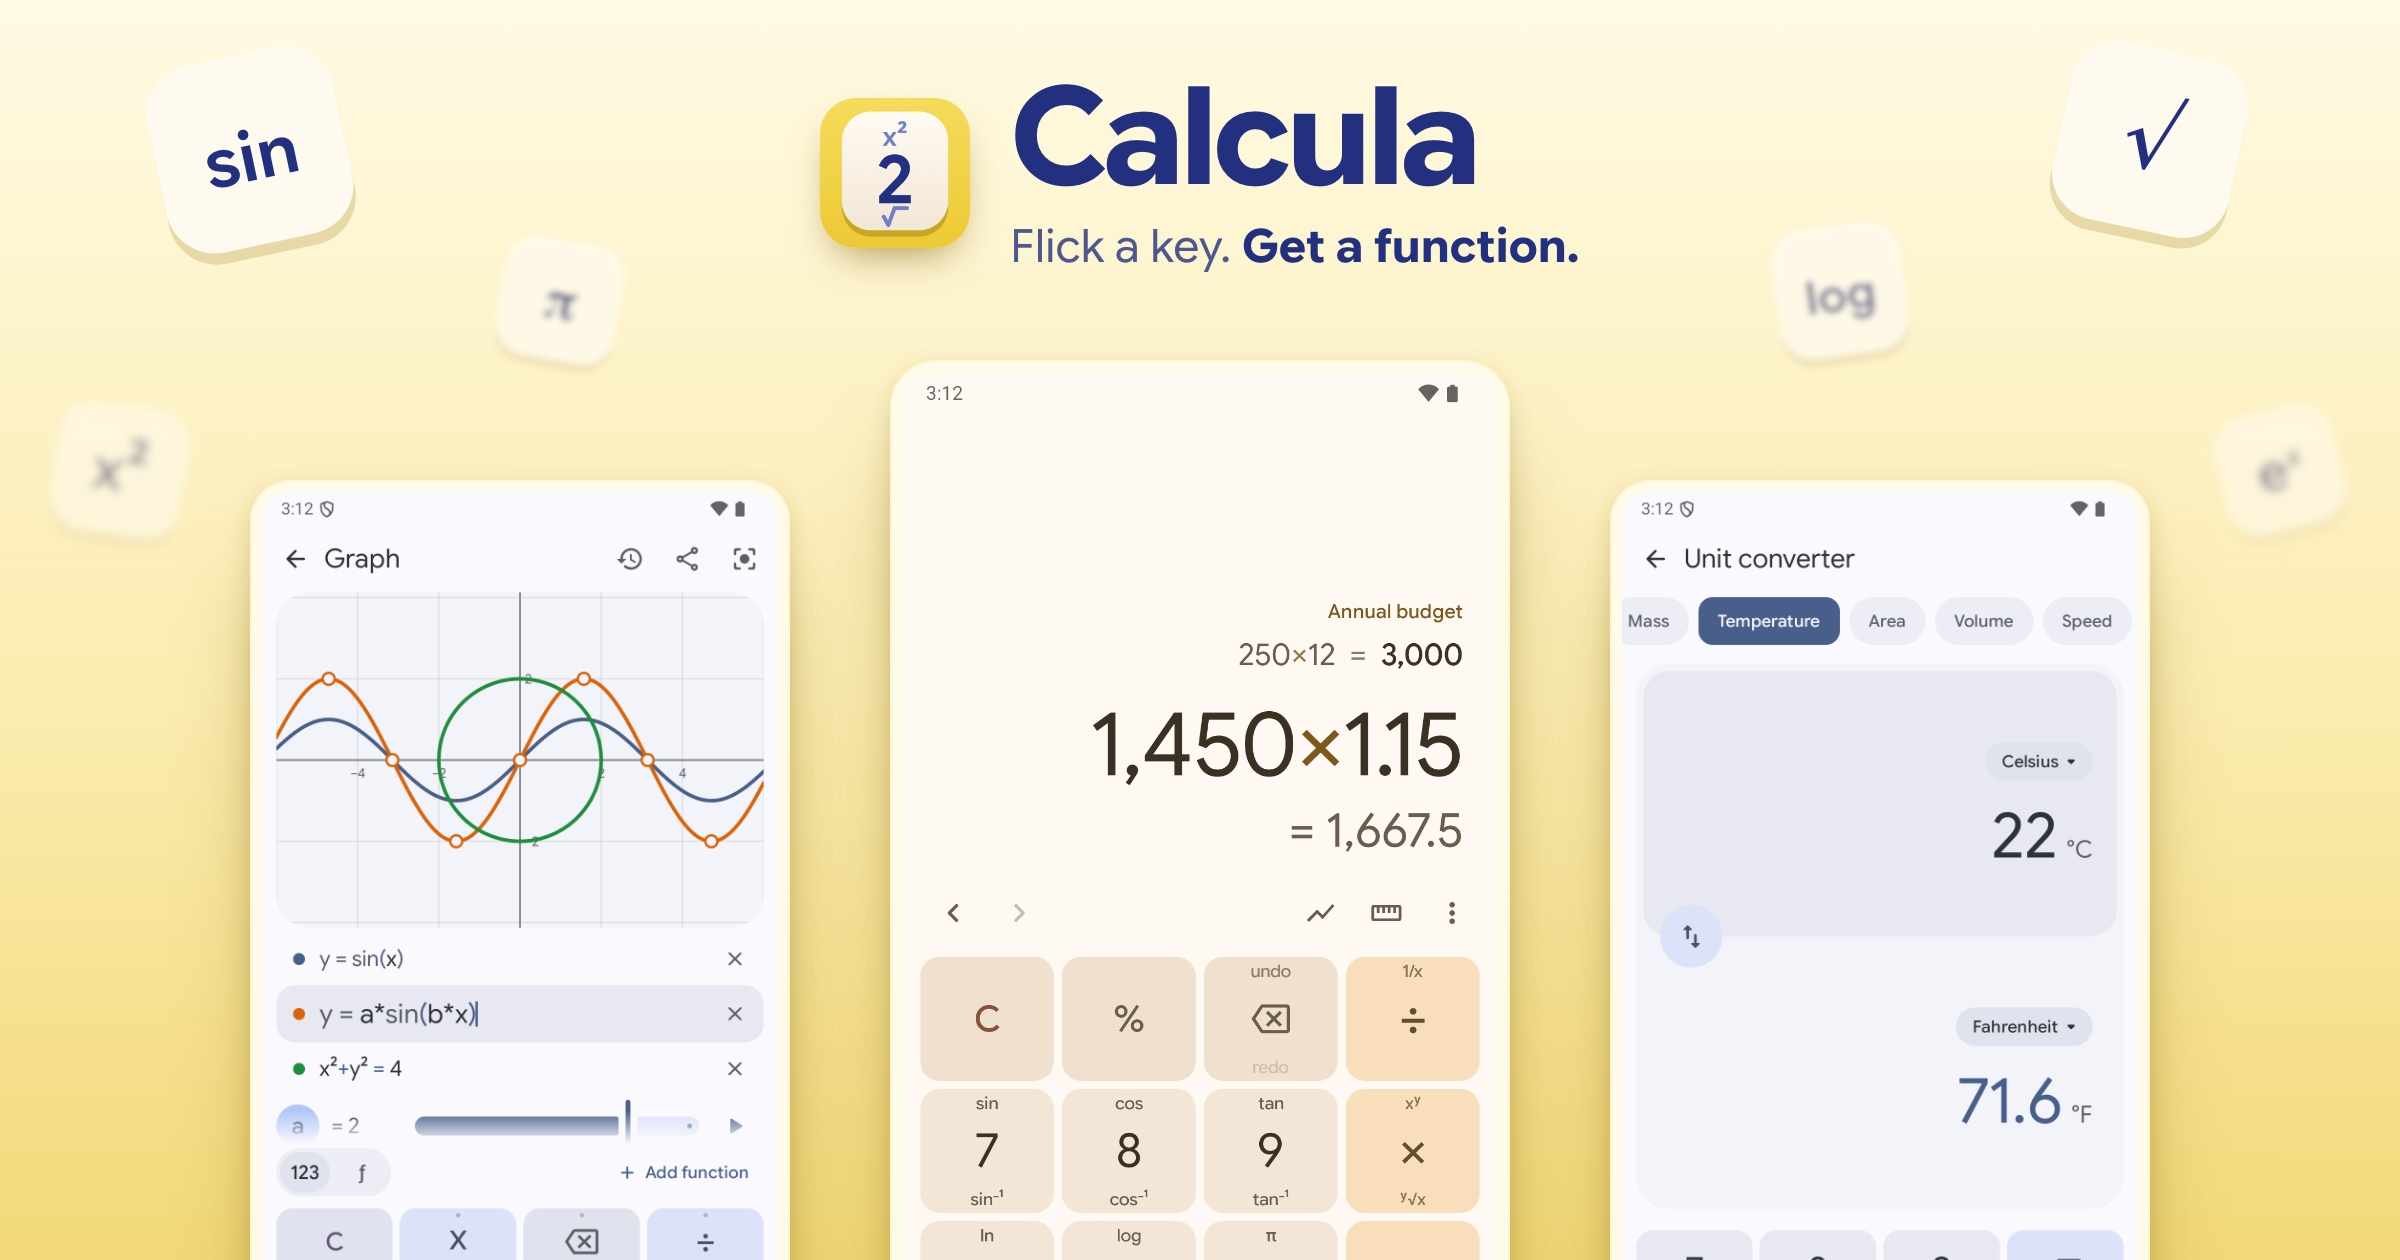
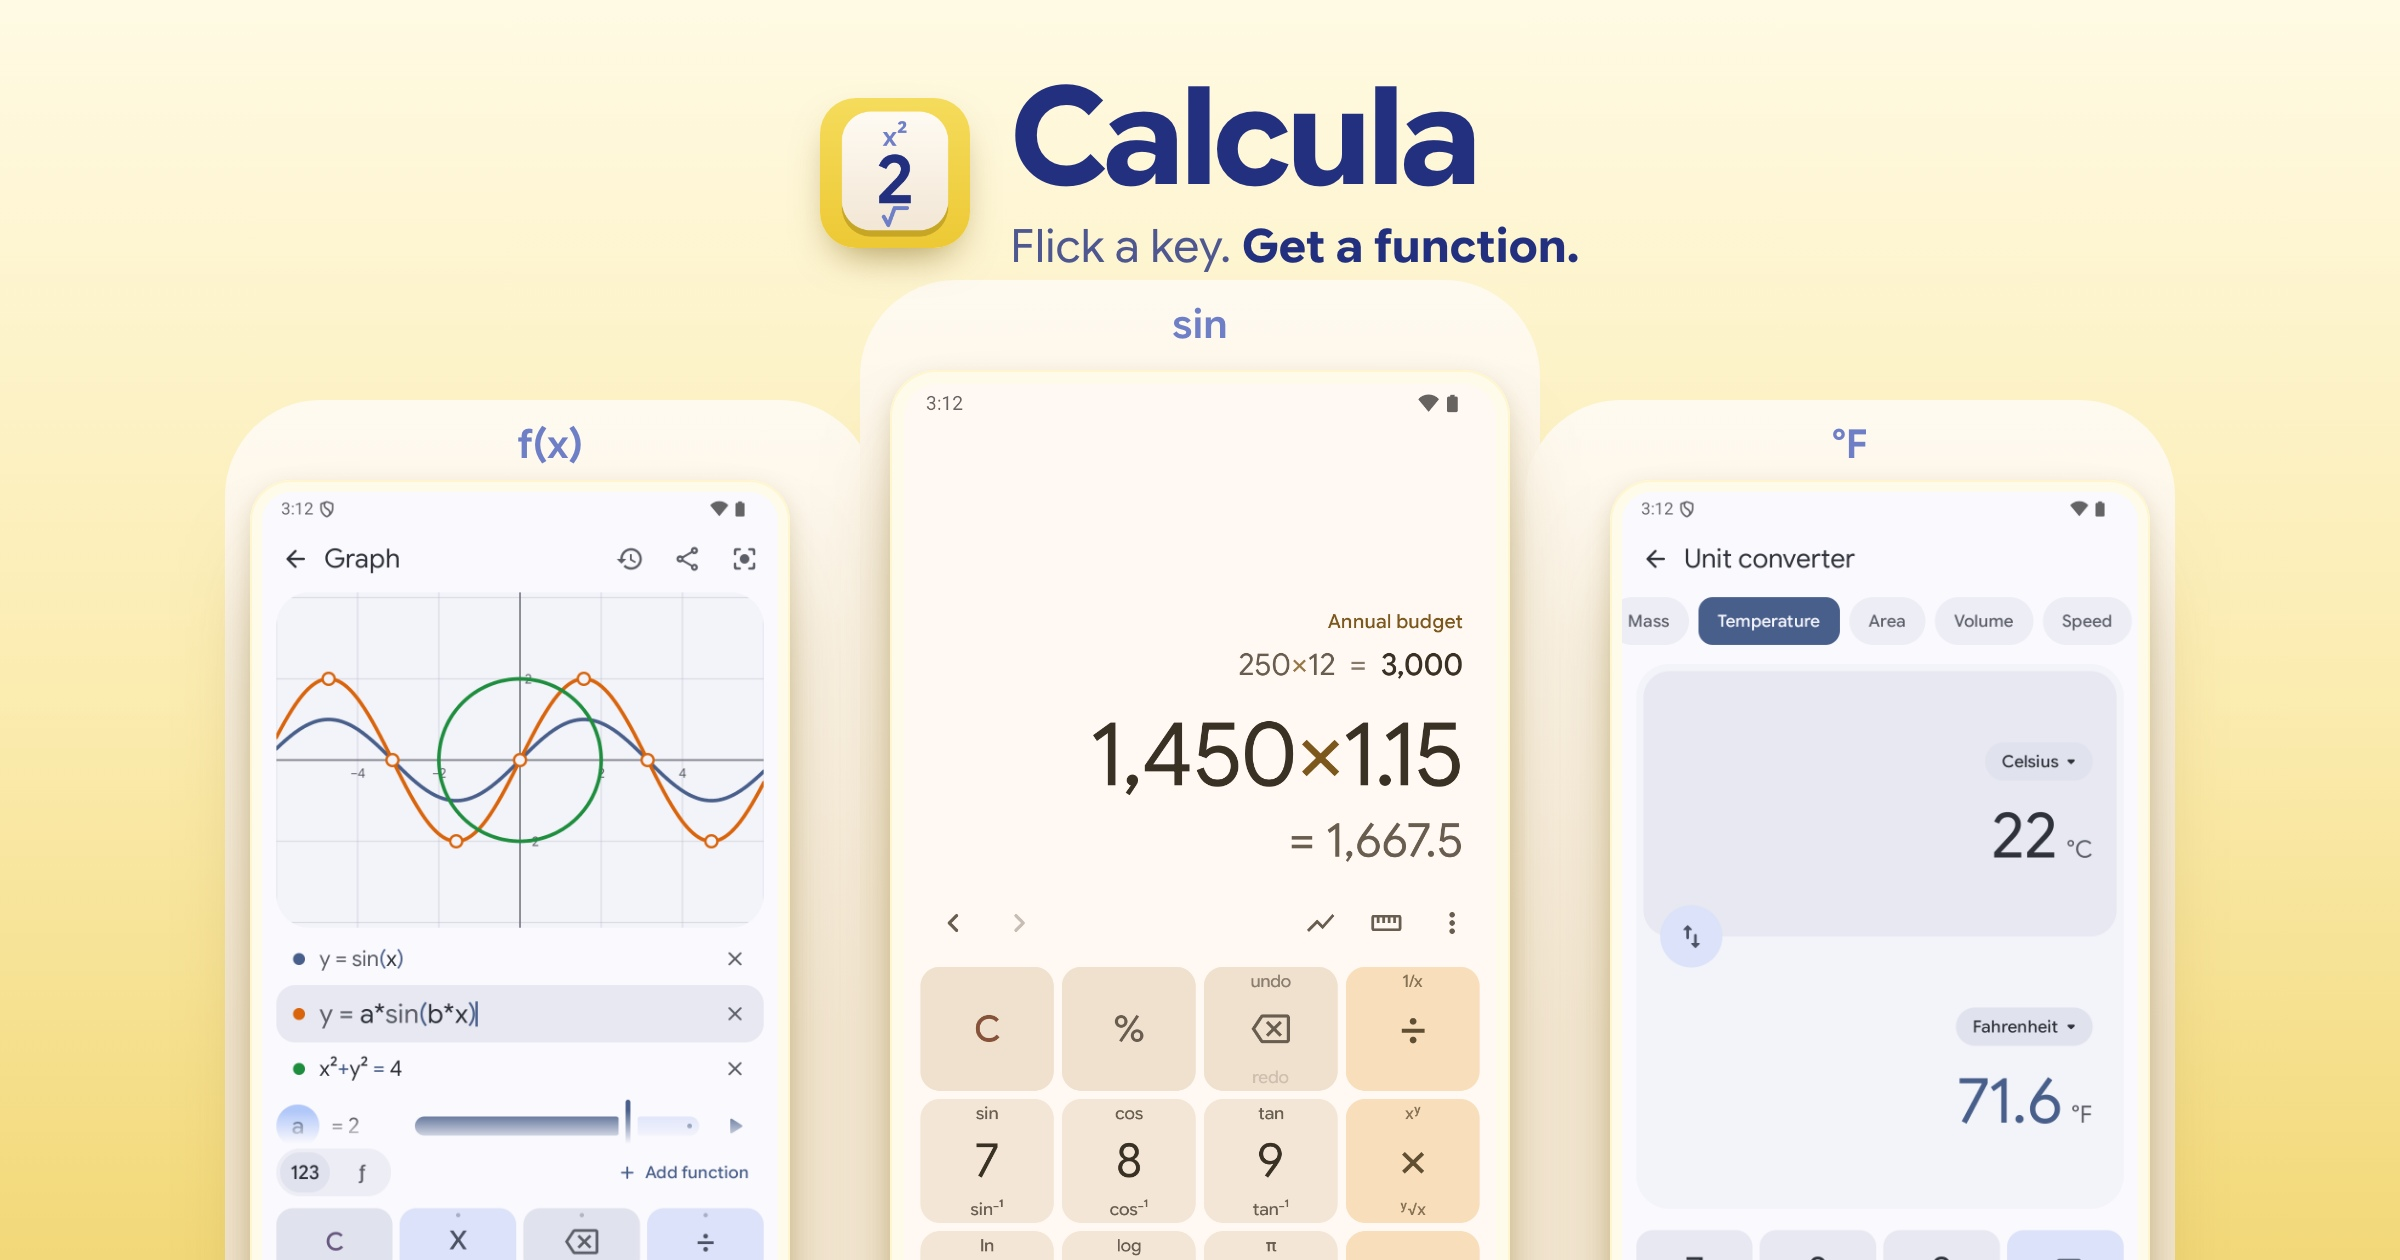
README header: each phone stands on a Calcula key with its function on the cap: f(x), sin, °F

diff --git a/store-listing/theme.js b/store-listing/theme.js
@@ -32,18 +32,14 @@ export default {
   // Paper: a faint graph-paper grid in panorama coordinates, so the cards still join when shown together.
   art({W, H, index, slide}) {
     if (slide.identity) {
-      // The README header: Calcula's yellow with its scientific keys floating around the name, near ones sharp,
-      // far ones small and soft, the functions that sit a flick away on every key.
-      const keys = [
-        // [label, x, y, size, rotation, blur]
-        ['sin', 250, 150, 190, -12, 0], ['π', 560, 300, 120, 10, 3], ['x²', 120, 470, 130, 8, 5],
-        ['√', 2150, 140, 180, 12, 0], ['log', 1840, 290, 130, -8, 3], ['eˣ', 2280, 470, 120, -14, 5]];
-      const blurs = [...new Set(keys.map(k => k[5]).filter(Boolean))].map(b => `<filter id="soft${b}" x="-30%" y="-30%" width="160%" height="160%"><feGaussianBlur stdDeviation="${b}"/></filter>`).join('');
-      const caps = keys.map(([label, x, y, s, r, b]) => `<g transform="translate(${x} ${y}) rotate(${r})"${b ? ` filter="url(#soft${b})" opacity="${(1 - b / 12).toFixed(2)}"` : ''}>` +
-        `<rect x="${-s / 2}" y="${-s / 2 + s * .06}" width="${s}" height="${s}" rx="${s * .26}" fill="#9a7410" opacity=".22"/>` +
-        `<rect x="${-s / 2}" y="${-s / 2}" width="${s}" height="${s}" rx="${s * .26}" fill="#fffaf0"/>` +
-        `<text y="${s * .16}" font-size="${s * (label.length > 2 ? .36 : .46)}" font-family="Calcula" font-weight="600" fill="#22307f" text-anchor="middle">${label}</text></g>`).join('');
-      return `<defs><linearGradient id="field" x1="0" y1="0" x2="0" y2="1"><stop offset="0" stop-color="#fffae4"/><stop offset=".55" stop-color="#fbecb0"/><stop offset="1" stop-color="#f2d878"/></linearGradient>${blurs}</defs>` +
+      // The README header: plain honey, and each phone stands on one of Calcula's keys, its function written at the
+      // top of the cap like every key in the app: f(x) over the graph, sin over the keypad, °F over the converter.
+      const caps = [['f(x)', 225, 400, 650], ['sin', 860, 280, 680], ['°F', 1525, 400, 650]].map(([label, x, y, w]) =>
+        `<rect x="${x}" y="${y + 16}" width="${w}" height="${H}" rx="96" fill="#9a7410" opacity=".16"/>` +
+        `<rect x="${x}" y="${y}" width="${w}" height="${H}" rx="96" fill="url(#cap)"/>` +
+        `<text x="${x + w / 2}" y="${y + 58}" font-size="40" font-family="Calcula" font-weight="600" fill="#6e7fc8" text-anchor="middle">${label}</text>`).join('');
+      return `<defs><linearGradient id="field" x1="0" y1="0" x2="0" y2="1"><stop offset="0" stop-color="#fffae4"/><stop offset=".55" stop-color="#fbecb0"/><stop offset="1" stop-color="#f2d878"/></linearGradient>` +
+        `<linearGradient id="cap" x1="0" y1="0" x2="0" y2="1"><stop offset="0" stop-color="#fffaf0"/><stop offset=".5" stop-color="#f6ead6"/></linearGradient></defs>` +
         `<rect width="${W}" height="${H}" fill="url(#field)"/>${caps}`;
     }
     const cell = Math.round(Math.min(W, H) / 18), major = cell * 5, x0 = -index * W, off = ((x0 % major) + major) % major;

diff --git a/store-listing/theme.css b/store-listing/theme.css
@@ -129,3 +129,5 @@ header p{margin:26px 0 0;font-size:40px;line-height:1.24;letter-spacing:-.5px;wh
 .readme .hero .identity small{font-size:46px;font-weight:400;color:#22307fcc}
 .readme .hero .identity small em{font-weight:700;color:#22307f}
 .readme .hero .device{--bezel:14px;--radius:58px;background:#fffbea;box-shadow:inset 0 0 0 2px #fff6d0,0 10px 24px #7a5a0033,0 60px 100px -40px #7a5a00aa}
+.readme .hero.named .left,.readme .hero.named .right{top:480px}
+.readme .hero.named .center{top:370px}
